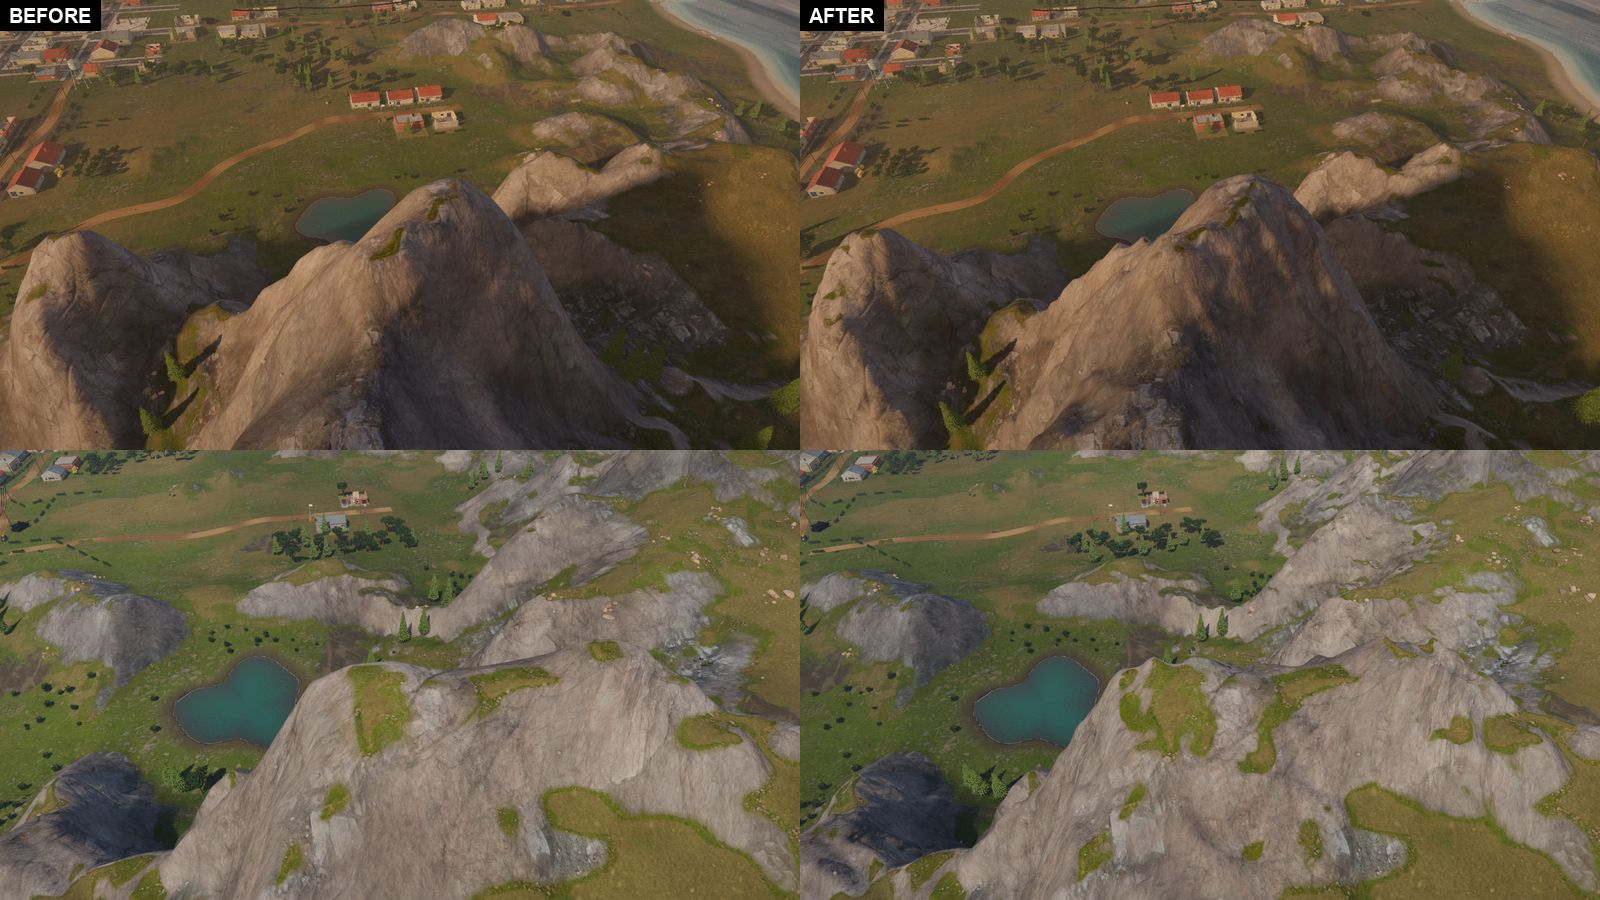
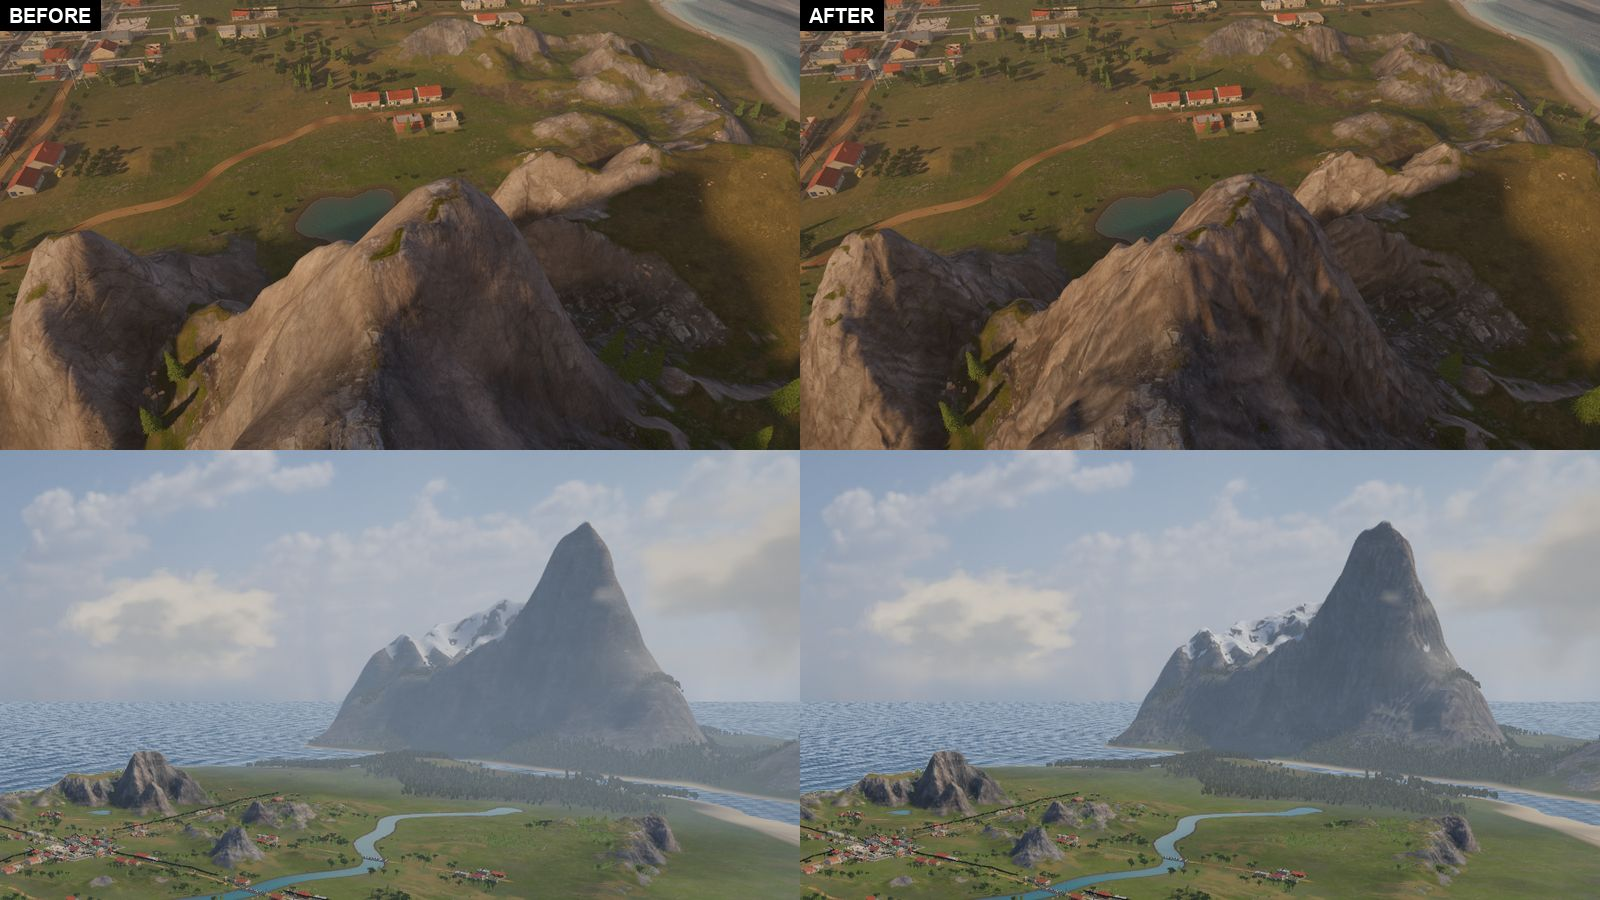
Show the gullies and distant crags in the changelog sheet

diff --git a/changelog/unreleased/rock-crags.md b/changelog/unreleased/rock-crags.md
@@ -5,7 +5,7 @@ kind = "improved"
 
 [[screenshots]]
 file = "comparison.jpg"
-caption = "The same crags before and after: at golden hour (seed 11) and by day (seed 3)."
+caption = "Before and after: a crag at golden hour, and a distant peak from a low camera (seed 11)."
 +++
 
 - Steep bare rock now has knobs, ledges and clefts up to a few metres deep, finer than the hills' own shape, so crests break into a jagged line instead of a smooth dome.
